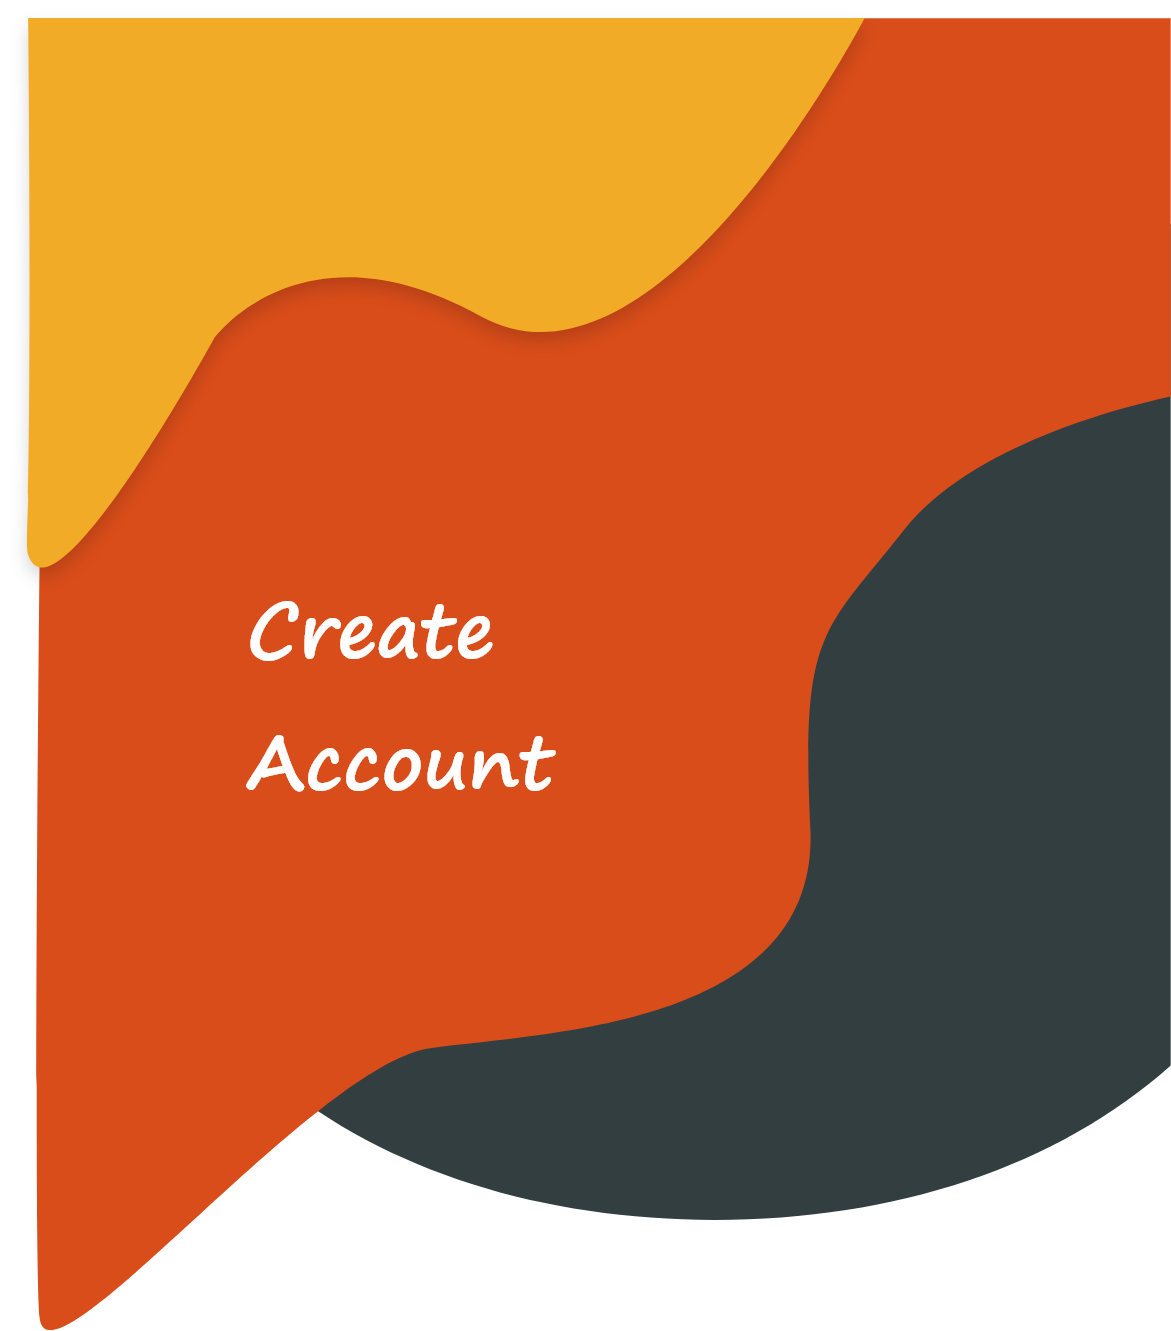
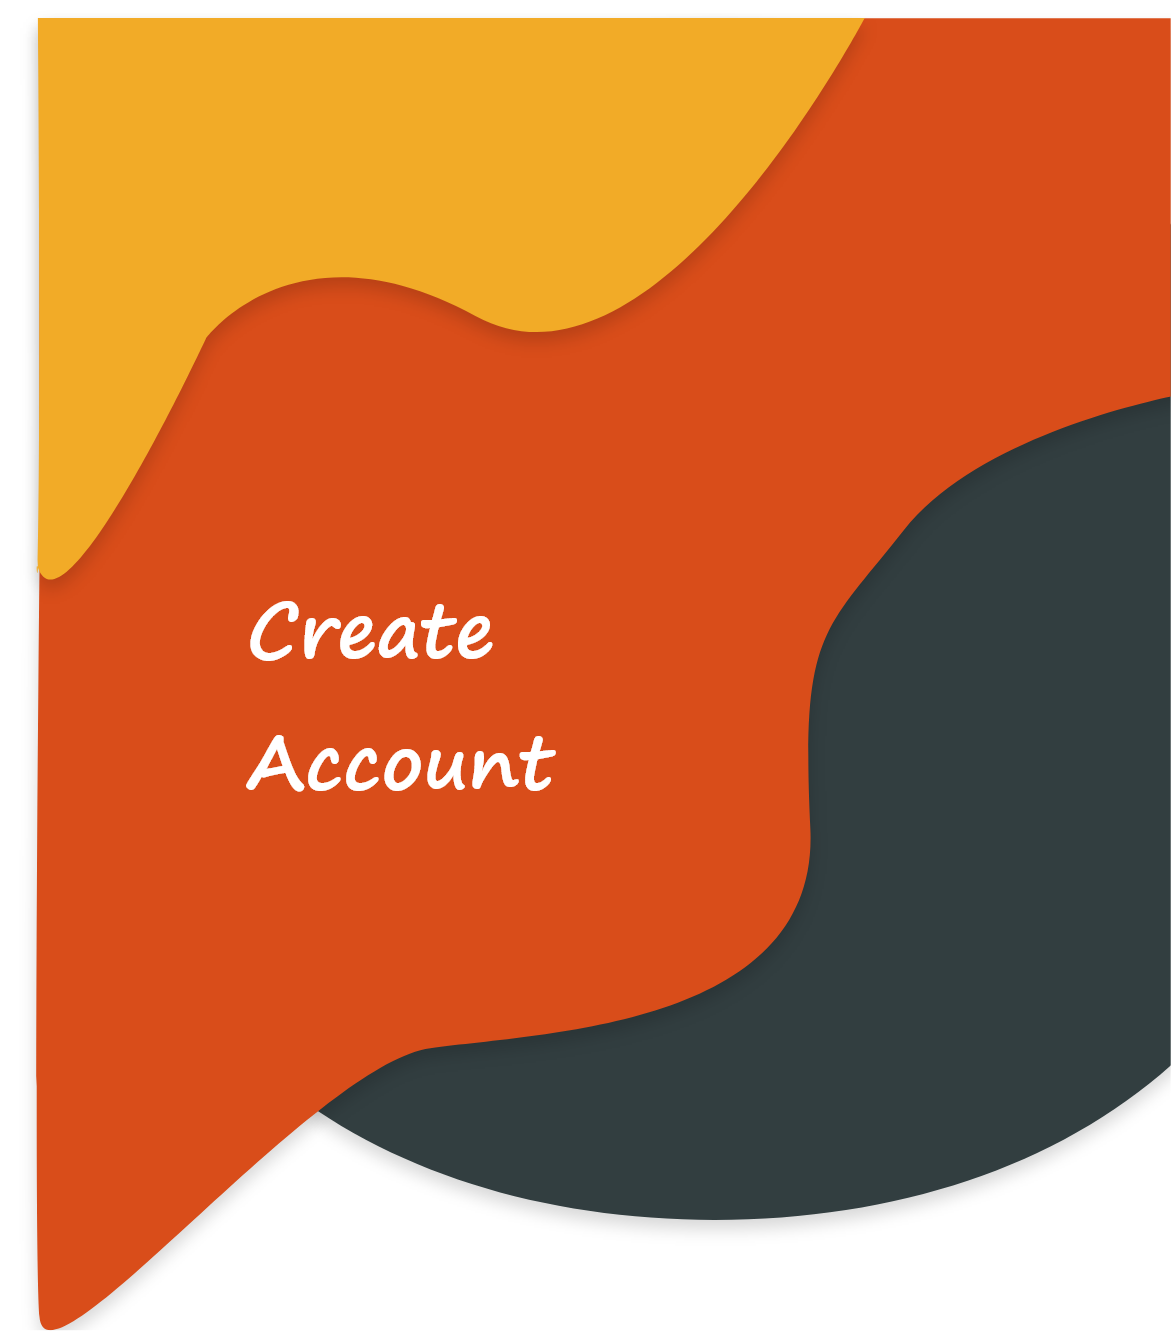
fix some prevoice img & draewr

diff --git a/lib/catogory.dart b/lib/catogory.dart
@@ -6,7 +6,7 @@ import 'TextStyle.dart';
 
 class Catogory extends StatelessWidget {
   final double weidth, height;
-  final AuthServices _auth = AuthServices();
+  // final AuthServices _auth = AuthServices();
 
   Catogory(this.weidth, this.height);
 
@@ -14,13 +14,13 @@ class Catogory extends StatelessWidget {
   Widget build(BuildContext context) {
     return Scaffold(
         backgroundColor: Colors.white,
-        floatingActionButton: FloatingActionButton(
-          backgroundColor: Color.fromRGBO(217, 125, 13, 1),
-          onPressed: () async {
-            await _auth.SignOut();
-          },
-          child: Text("Logout", style: TextStyle(color: Colors.white,),)
-        ),
+        // floatingActionButton: FloatingActionButton(
+        //   backgroundColor: Color.fromRGBO(217, 125, 13, 1),
+        //   onPressed: () async {
+        //     await _auth.SignOut();
+        //   },
+        //   child: Text("Logout", style: TextStyle(color: Colors.white,),)
+        // ),
         body: Container(
             height: height,
             width: weidth,
@@ -28,10 +28,10 @@ class Catogory extends StatelessWidget {
               children: [
                 //header of ForgetPass
                 Positioned(
-                  right: -2,
+                  right: -22,
                   top: -2,
                   child: Image(
-                      width: weidth + 20,
+                      width: weidth + 30,
                       height: height / 2.9,
                       image: AssetImage('assets/catogory@3x.png'),
                       fit: BoxFit.fill),
@@ -57,7 +57,7 @@ class Catogory extends StatelessWidget {
                                         context,
                                         new MaterialPageRoute(
                                             builder: (context) =>
-                                                new salads()));
+                                                new Sub_Categories("Salads")));
                                   },
                                   child: Image(
                                     width: weidth * 0.39,
@@ -73,7 +73,7 @@ class Catogory extends StatelessWidget {
                                     Navigator.push(
                                         context,
                                         new MaterialPageRoute(
-                                            builder: (context) => new soup()));
+                                            builder: (context) => Sub_Categories("Soup")));
                                   },
                                   child: Image(
                                     width: weidth * 0.39,
@@ -88,7 +88,7 @@ class Catogory extends StatelessWidget {
                                       context,
                                       new MaterialPageRoute(
                                           builder: (context) =>
-                                              new MainDishes()));
+                                              new Sub_Categories("Main Dishes")));
                                 },
                                 child: Image(
                                   width: weidth * 0.39,
@@ -112,7 +112,7 @@ class Catogory extends StatelessWidget {
                                         context,
                                         new MaterialPageRoute(
                                             builder: (context) =>
-                                                new apptizers()));
+                                                new Sub_Categories("Appetizers")));
                                   },
                                   child: Image(
                                     width: weidth * 0.39,
@@ -130,7 +130,7 @@ class Catogory extends StatelessWidget {
                                         context,
                                         new MaterialPageRoute(
                                             builder: (context) =>
-                                                new sweets()));
+                                                new Sub_Categories("Sweets")));
                                   },
                                   child: Image(
                                     width: weidth * 0.39,
@@ -144,7 +144,7 @@ class Catogory extends StatelessWidget {
                                   Navigator.push(
                                       context,
                                       new MaterialPageRoute(
-                                          builder: (context) => new jusis()));
+                                          builder: (context) => new Sub_Categories("Juice")));
                                 },
                                 child: Image(
                                   width: weidth * 0.39,

diff --git a/lib/main.dart b/lib/main.dart
@@ -8,12 +8,7 @@ import 'login.dart';
 import 'singup.dart';
 import 'forgetPassword.dart';
 import 'catogory.dart';
-import 'apptizersPage.dart';
-import 'saladsPage.dart';
-import 'soupPage.dart';
-import 'sweetsPage.dart';
-import 'mainDishesPage.dart';
-import 'JuisePage.dart';
+import 'package:swe444/SubCategories.dart';
 import 'TextStyle.dart';
 import 'package:animated_splash_screen/animated_splash_screen.dart';
 
@@ -111,82 +106,19 @@ class catogory extends StatelessWidget {
   }
 }
 
-class apptizers extends StatelessWidget {
+class Sub_Categories extends StatelessWidget {
+  final String cateogry;
+
+  const Sub_Categories(this.cateogry);
   @override
   Widget build(BuildContext context) {
     final height = MediaQuery.of(context).size.height;
     final weidth = MediaQuery.of(context).size.width;
-    return Scaffold(
-        backgroundColor: Colors.white,
-        appBar: setAppBar(weidth, "Appetizers"),
-        body: Appatizers(weidth, height));
+    return SubCategories(weidth, height, cateogry);
   }
 }
 
-class salads extends StatelessWidget {
-  @override
-  Widget build(BuildContext context) {
-    final height = MediaQuery.of(context).size.height;
-    final weidth = MediaQuery.of(context).size.width;
-    return Scaffold(
-        backgroundColor: Colors.white,
-        appBar: setAppBar(weidth, "Salads"),
-        body: Salads(weidth, height));
-  }
-}
 
-class soup extends StatelessWidget {
-  @override
-  Widget build(BuildContext context) {
-    final height = MediaQuery.of(context).size.height;
-    final weidth = MediaQuery.of(context).size.width;
-    return Scaffold(
-        backgroundColor: Colors.white,
-        appBar: setAppBar(weidth, "Soup"),
-        body: Soup(weidth, height));
-  }
-}
 
-class sweets extends StatelessWidget {
-  @override
-  Widget build(BuildContext context) {
-    final height = MediaQuery.of(context).size.height;
-    final weidth = MediaQuery.of(context).size.width;
-    return Scaffold(
-        backgroundColor: Colors.white,
-        appBar: setAppBar(weidth, "Sweets"),
-        body: Sweets(weidth, height));
-  }
-}
-
-class jusis extends StatelessWidget {
-  @override
-  Widget build(BuildContext context) {
-    final height = MediaQuery.of(context).size.height;
-    final weidth = MediaQuery.of(context).size.width;
-    return Scaffold(
-        backgroundColor: Colors.white,
-        appBar: setAppBar(weidth, "Juice"),
-        body: Jusis(weidth, height));
-  }
-}
-
-class MainDishes extends StatelessWidget {
-  @override
-  Widget build(BuildContext context) {
-    final height = MediaQuery.of(context).size.height;
-    final weidth = MediaQuery.of(context).size.width;
-    return Scaffold(
-        backgroundColor: Colors.white,
-        appBar: setAppBar(weidth, "Main Dishes"),
-        body: mainDishes(weidth, height));
-  }
-}
-
-Widget setAppBar(double weidth, String name) {
-  return AppBar(
-      backgroundColor: Color.fromRGBO(115, 32, 2, 1),
-      title: Text(name, style: textStyle().style4(weidth)));
-}
 
 

diff --git a/lib/SubCategories.dart b/lib/SubCategories.dart
@@ -1,0 +1,92 @@
+import 'package:flutter/cupertino.dart';
+import 'package:flutter/material.dart';
+import 'package:swe444/main.dart';
+import 'package:swe444/Services/auth.dart';
+import 'TextStyle.dart';
+
+// class SubCategories extends StatefulWidget{
+//   double weidth, height;
+//   String category;
+//   @override
+//   State<StatefulWidget> createState() {
+//     return subCategories(weidth, height, category);
+//   }
+//
+// }
+
+class SubCategories extends StatelessWidget {
+  final double weidth, height;
+  String category;
+
+  SubCategories(this.weidth, this.height, this.category);
+
+  @override
+  Widget build(BuildContext context) {
+    return Scaffold(
+      backgroundColor: Colors.white,
+      appBar: setAppBar(weidth, category),
+      drawer: drawer(weidth, category),
+      body: Container(
+        height: height,
+        width: weidth,
+      ),
+    );
+  }
+}
+
+
+
+Widget setAppBar(double weidth, String name) {
+  return AppBar(
+      backgroundColor: Color.fromRGBO(217, 125, 13, 1),
+      title: Text(name, style: textStyle().style4(weidth)));
+}
+Widget drawer(double weidth, String name) {
+  final AuthServices _auth = AuthServices();
+  return Drawer(
+    child: ListView(
+      children: [
+        Container(
+
+
+          child: DrawerHeader(
+            decoration: BoxDecoration(
+              color: Color.fromRGBO(50, 62, 64, 1),
+              image: DecorationImage(
+                image: AssetImage("assets/Drawer@3x.png"),
+                fit: BoxFit.fill,
+
+              )
+            ),
+          ),
+        ),
+        ListTile(
+          title: Text("Salads"),
+          onTap: (){},
+        ),
+        ListTile(
+          title: Text("Soup"),
+          onTap: (){},
+        ),ListTile(
+          title: Text("Main Dishes"),
+          onTap: (){},
+        ),ListTile(
+          title: Text("Appetizers"),
+          onTap: (){},
+        ),ListTile(
+          title: Text("Sweets"),
+          onTap: (){},
+        ),ListTile(
+          title: Text("Juice"),
+          onTap: (){},
+        ),
+        ListTile(
+          title: Text("Log Out"),
+          onTap: () async {
+            await _auth.SignOut();
+          },
+        ),
+      ],
+    ),
+  );
+}

diff --git a/lib/TextStyle.dart b/lib/TextStyle.dart
@@ -21,7 +21,7 @@ class textStyle {
 
   TextStyle style4(double x) {
     return new TextStyle(
-        fontSize: x * 0.08,
+        fontSize: x * 0.07,
         color: Colors.white,
         // fontWeight: FontWeight.bold,
         );
